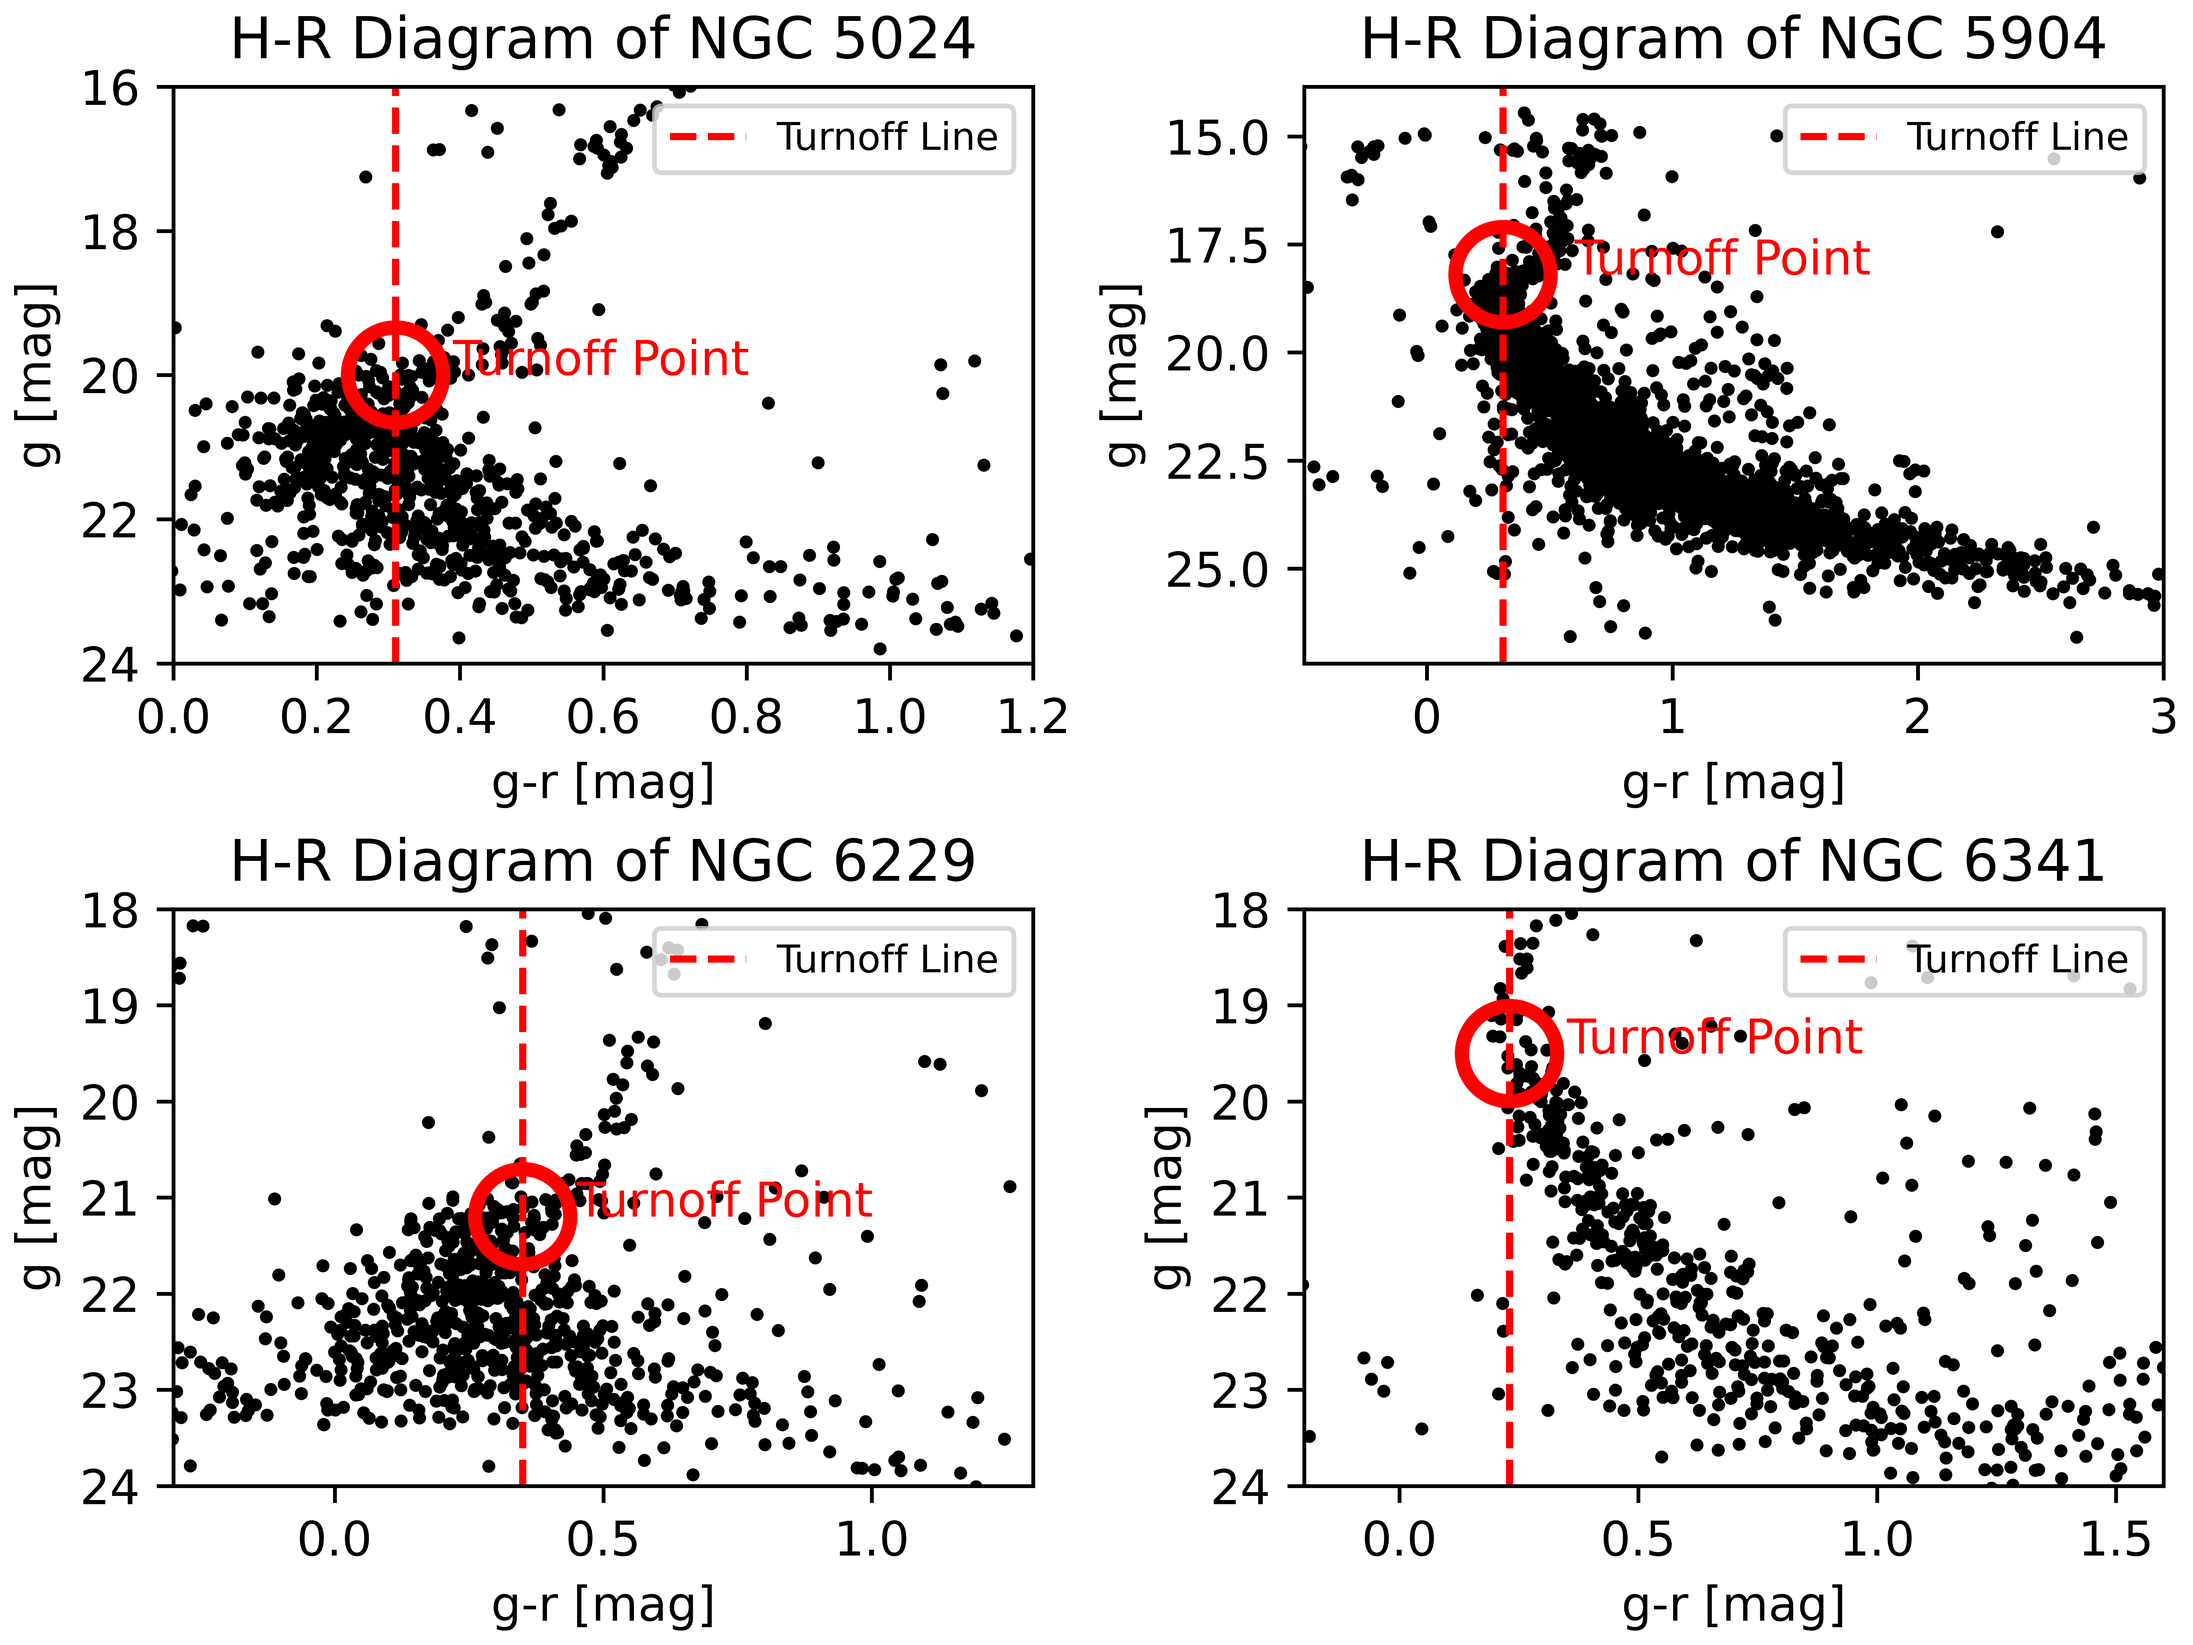
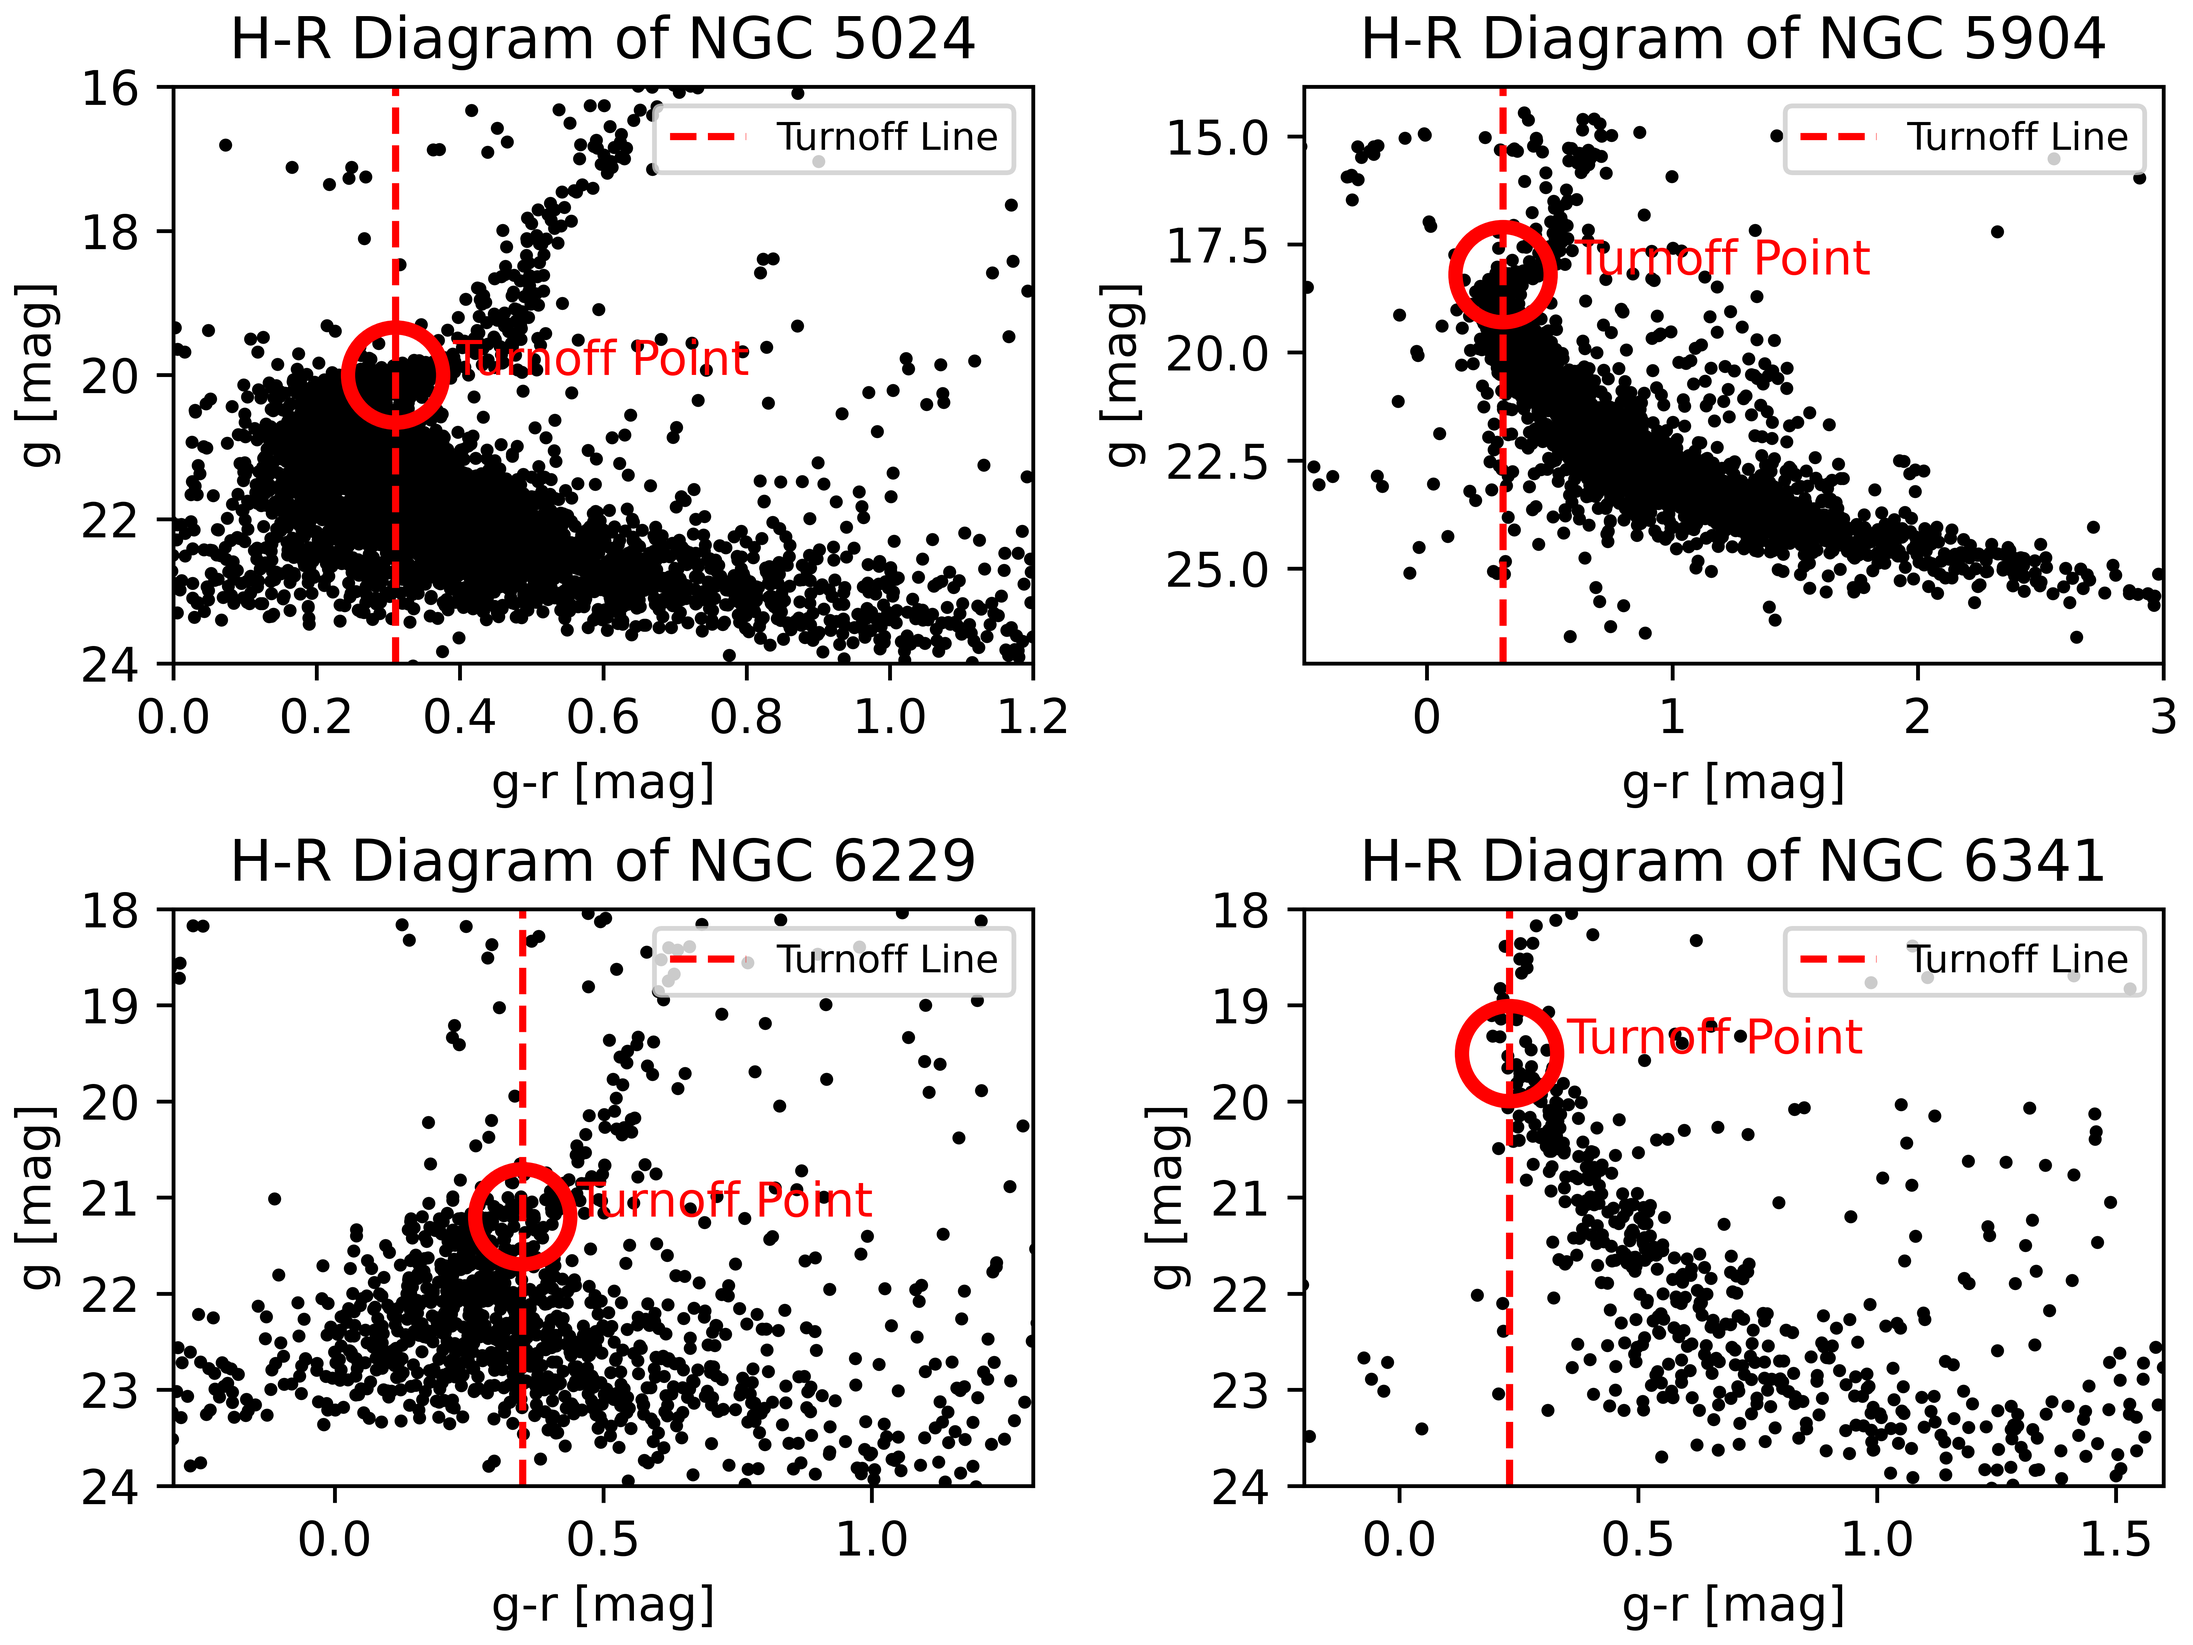
Added More Stars

diff --git a/Project 4/hrCode.py b/Project 4/hrCode.py
@@ -5,10 +5,10 @@ Created by Jerome Larson
 import numpy as np
 import matplotlib.pyplot as plt
 
-ngc5024 = np.genfromtxt("NGC 5024.csv", delimiter=",", skip_header=1, usecols=(10, 11))
+ngc5024 = np.genfromtxt("NGC 5024 Alt.csv", delimiter=",", skip_header=1, usecols=(10, 11))
 ngc5904 = np.genfromtxt("NGC 5904.csv", delimiter=",", skip_header=1, usecols=(10, 11))
-ngc6229 = np.genfromtxt("NGC 6229.csv", delimiter=",", skip_header=1, usecols=(10, 11))
-ngc6341 = np.genfromtxt("NGC 6341.csv", delimiter=",", skip_header=1, usecols=(10, 11))
+ngc6229 = np.genfromtxt("NGC 6229 Alt.csv", delimiter=",", skip_header=1, usecols=(10, 11))
+ngc6341 = np.genfromtxt("NGC 6341 Alt.csv", delimiter=",", skip_header=1, usecols=(10, 11))
 
 #Plot 1
 g5024 = ngc5024[:, 0]
@@ -88,5 +88,5 @@ ax[1, 1].set_ylabel("g [mag]")
 ax[1, 1].set_title("H-R Diagram of NGC 6341")
 ax[1, 1].legend(loc='upper right', fontsize=8)
 
-plt.savefig("All Clusters.png", dpi=1000)
+#plt.savefig("All Clusters.png", dpi=1000)
 plt.show()
